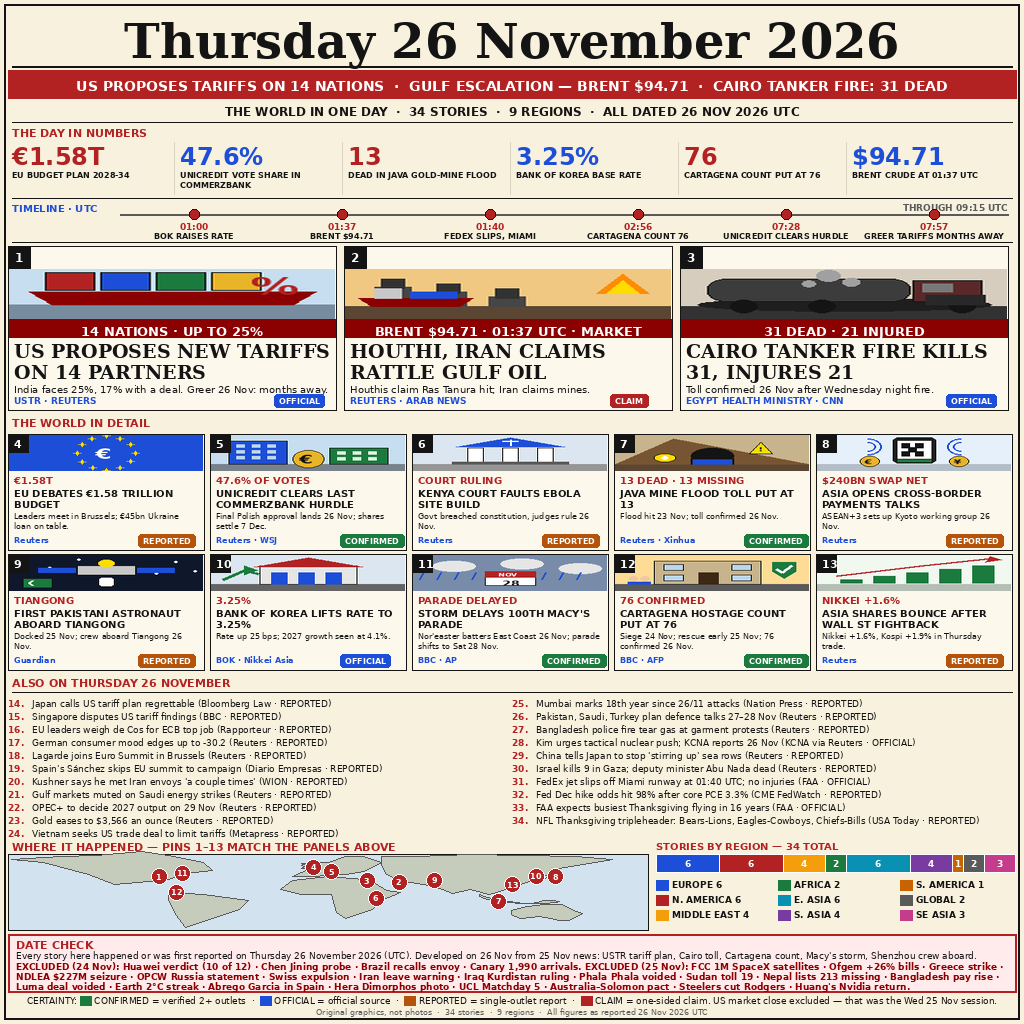
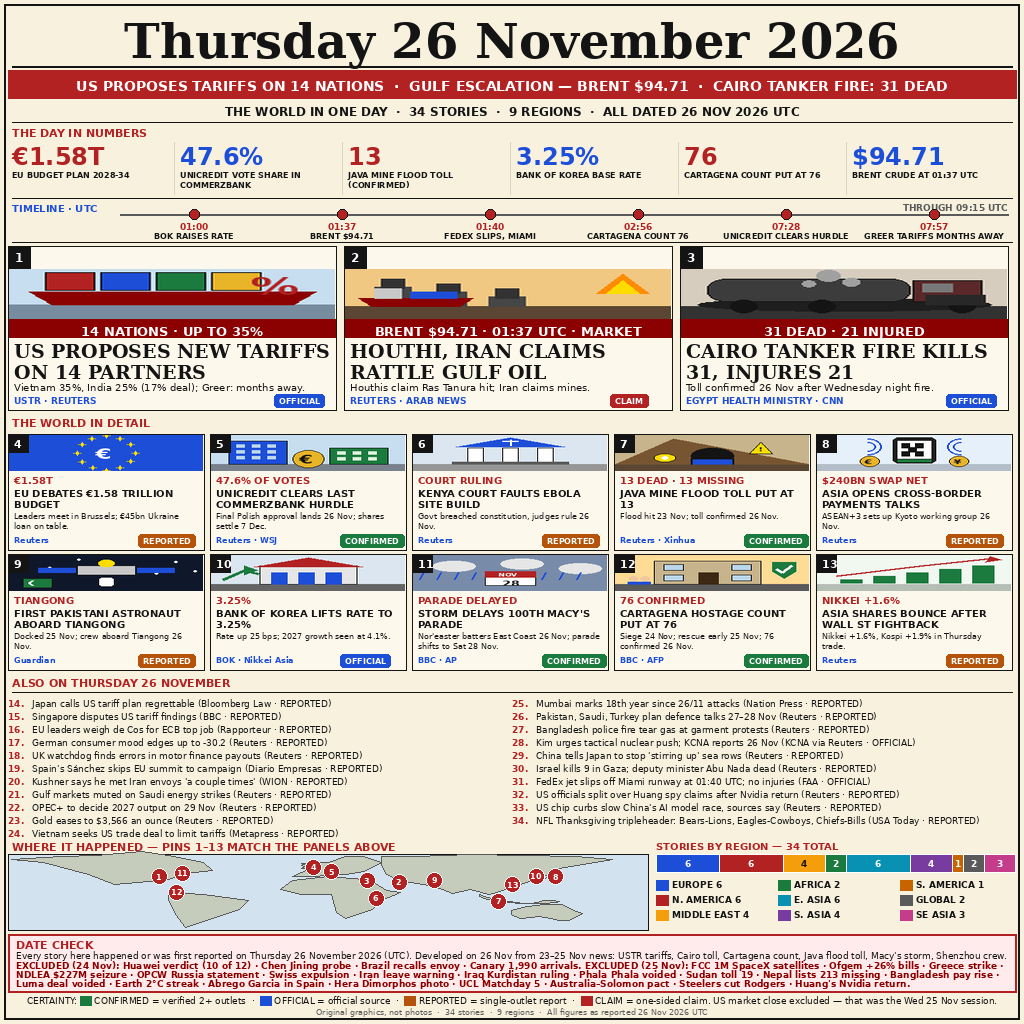
Revise-4 per Antigravity round 3: replace 24-25 Nov cards/briefs/KPIs with verified 26 Nov stories, expand EXCLUDED, honest DATE CHECK, cutoff 09:15 UTC

diff --git a/draw.py b/draw.py
@@ -345,10 +345,10 @@ def blit_scene(img, name, x, y, w, h):
 
 # ---------------------------------------------------------------- data
 MAIN_PANELS = [
-    dict(num=1, label="14 NATIONS · UP TO 25%", scene="tariff", badge="OFFICIAL",
+    dict(num=1, label="14 NATIONS · UP TO 35%", scene="tariff", badge="OFFICIAL",
          source="USTR · REUTERS", region="N. AMERICA",
          headline="US PROPOSES NEW TARIFFS ON 14 PARTNERS",
-         sub="India faces 25%, 17% with a deal. Greer 26 Nov: months away."),
+         sub="Vietnam 35%, India 25% (17% deal); Greer: months away."),
     dict(num=2, label="BRENT $94.71 · 01:37 UTC · MARKET", scene="gulf", badge="CLAIM",
          source="REUTERS · ARAB NEWS", region="MIDDLE EAST",
          headline="HOUTHI, IRAN CLAIMS RATTLE GULF OIL",
@@ -409,7 +409,7 @@ ALSO = [
     ("Singapore disputes US tariff findings", "BBC", "REPORTED", "SE ASIA"),
     ("EU leaders weigh de Cos for ECB top job", "Rapporteur", "REPORTED", "EUROPE"),
     ("German consumer mood edges up to -30.2", "Reuters", "REPORTED", "EUROPE"),
-    ("Lagarde joins Euro Summit in Brussels", "Reuters", "REPORTED", "EUROPE"),
+    ("UK watchdog finds errors in motor finance payouts", "Reuters", "REPORTED", "EUROPE"),
     ("Spain's Sánchez skips EU summit to campaign", "Diario Empresas", "REPORTED", "EUROPE"),
     ("Kushner says he met Iran envoys 'a couple times'", "WION", "REPORTED", "MIDDLE EAST"),
     ("Gulf markets muted on Saudi energy strikes", "Reuters", "REPORTED", "MIDDLE EAST"),
@@ -423,15 +423,15 @@ ALSO = [
     ("China tells Japan to stop 'stirring up' sea rows", "Reuters", "REPORTED", "E. ASIA"),
     ("Israel kills 9 in Gaza; deputy minister Abu Nada dead", "Reuters", "REPORTED", "MIDDLE EAST"),
     ("FedEx jet slips off Miami runway at 01:40 UTC; no injuries", "FAA", "OFFICIAL", "N. AMERICA"),
-    ("Fed Dec hike odds hit 98% after core PCE 3.3%", "CME FedWatch", "REPORTED", "N. AMERICA"),
-    ("FAA expects busiest Thanksgiving flying in 16 years", "FAA", "OFFICIAL", "N. AMERICA"),
+    ("US officials split over Huang spy claims after Nvidia return", "Reuters", "REPORTED", "N. AMERICA"),
+    ("US chip curbs slow China's AI model race, sources say", "Reuters", "REPORTED", "N. AMERICA"),
     ("NFL Thanksgiving tripleheader: Bears-Lions, Eagles-Cowboys, Chiefs-Bills", "USA Today", "REPORTED", "N. AMERICA"),
 ]
 
 NUMBERS = [
     ("€1.58T", "EU BUDGET PLAN 2028-34"),
     ("47.6%", "UNICREDIT VOTE SHARE IN COMMERZBANK"),
-    ("13", "DEAD IN JAVA GOLD-MINE FLOOD"),
+    ("13", "JAVA MINE FLOOD TOLL (CONFIRMED)"),
     ("3.25%", "BANK OF KOREA BASE RATE"),
     ("76", "CARTAGENA COUNT PUT AT 76"),
     ("$94.71", "BRENT CRUDE AT 01:37 UTC"),
@@ -553,7 +553,7 @@ def render():
                p["label"], font=lf, fill=(255, 255, 255))
         draw_wrapped(d, p["headline"], font(19, bold=True, serif=True), x + 6, y0 + 94,
                      pw - 12, leading=21)
-        d.text((x + 6, y0 + 137), p["sub"], font=font(10), fill=INK)
+        d.text((x + 6, y0 + 135), p["sub"], font=font(10), fill=INK)
         d.text((x + 6, y0 + ph - 15), p["source"], font=font(9, bold=True), fill=BLUE)
         badge(d, x + pw - 62, y0 + ph - 16, p["badge"])
 
@@ -652,8 +652,11 @@ def render():
         if seg_w >= 10:
             cf = font(9, bold=True)
             cw = d.textlength(str(count), font=cf)
+            # dark digits on the bright-amber MIDDLE EAST segment: white
+            # there only reached 2.15:1, dark ink clears 9:1
+            num_fill = INK if name == "MIDDLE EAST" else (255, 255, 255)
             d.text((cx + (seg_w - cw) / 2, by + 4), str(count), font=cf,
-                   fill=(255, 255, 255))
+                   fill=num_fill)
         cx += seg_w
     # legend: colour swatch + name + count, 3 columns x 3 rows
     for i, (name, count, color) in enumerate(REGIONS):
@@ -668,8 +671,8 @@ def render():
     d.rectangle([8, 934, W - 8, 992], fill=(255, 235, 235), outline=RED, width=2)
     d.text((16, 938), "DATE CHECK", font=font(11, bold=True), fill=RED)
     dc1 = ("Every story here happened or was first reported on Thursday 26 November 2026 "
-           "(UTC). Developed on 26 Nov from 25 Nov news: USTR tariff plan, Cairo toll, "
-           "Cartagena count, Macy's storm, Shenzhou crew aboard.")
+           "(UTC). Developed on 26 Nov from 23–25 Nov news: USTR tariffs, Cairo toll, "
+           "Cartagena count, Java flood toll, Macy's storm, Shenzhou crew.")
     dc2 = ("EXCLUDED (24 Nov): Huawei verdict (10 of 12) · Chen Jining probe · Brazil "
            "recalls envoy · Canary 1,990 arrivals. EXCLUDED (25 Nov): FCC 1M SpaceX "
            "satellites · Ofgem +26% bills · Greece strike · NDLEA $227M seizure · OPCW "
@@ -678,8 +681,8 @@ def render():
            "Bangladesh pay rise · Luma deal voided · Earth 2°C streak · Abrego Garcia "
            "in Spain · Hera Dimorphos photo · UCL Matchday 5 · Australia–Solomon pact · "
            "Steelers cut Rodgers · Huang's Nvidia return.")
-    y = draw_wrapped(d, dc1, font(9), 16, 950, 992, fill=INK, leading=10)
-    draw_wrapped(d, dc2, font(9, bold=True), 16, y + 1, 992, fill=DARKRED, leading=10)
+    y = draw_wrapped(d, dc1, font(9), 16, 950, 992, fill=INK, leading=9)
+    draw_wrapped(d, dc2, font(9, bold=True), 16, y + 1, 992, fill=DARKRED, leading=9)
 
     # ---- footer legend: colour swatches in front of each certainty level
     legend_parts = [

diff --git a/README.md b/README.md
@@ -45,14 +45,31 @@ the Sudan toll, the Nepal list, the Bangladesh pay rise, the Luma
 verdict, the Earth 2°C streak, Abrego Garcia, the Brazil envoy and the
 Hera photo all left, replaced by 26 Nov items such as Japan's tariff
 protest, the GfK mood reading, the Mumbai 26/11 anniversary, the Kushner
-talks, the NFL tripleheader and the Fed's 98% hike odds. The DATE CHECK
-box now names only the five 25 Nov stories that genuinely developed on
-26 Nov (USTR tariffs, Cairo toll, Cartagena count, Macy's storm,
-Shenzhou crew aboard) and drops the old Swiss-deadline sentence. The
-timeline lost the OPCW stamp (a 25 Nov story) and the "GREER:" colon;
-Cards 1–3 gained breathing room under their subtexts and badges; and
-the region bar now pairs bright amber against red and bright cyan
-against green so the neighbours stay apart at thumbnail size.
+talks and the NFL tripleheader. The DATE CHECK box now names only the
+stories that genuinely developed on 26 Nov (USTR tariffs, Cairo toll,
+Cartagena count, Macy's storm, Shenzhou crew aboard) and drops the old
+Swiss-deadline sentence. The timeline lost the OPCW stamp (a 25 Nov
+story) and the "GREER:" colon; Cards 1–3 gained breathing room under
+their subtexts and badges; and the region bar now pairs bright amber
+against red and bright cyan against green so the neighbours stay apart
+at thumbnail size.
+
+Round-5 fixes (final): the Lead #1 ribbon now reads UP TO 35% — the
+USTR Section 301 proposal tops out at Vietnam's 35% (India 25%, or 17%
+with a deal); the 40% figure sometimes quoted is only China's
+conditional fallback rate, not a proposed rate, so it stays out of the
+ribbon. The last two stale briefs went out too — the Fed hike-odds item
+was built on 25 Nov PCE data with US markets shut on the 26th, and the
+FAA flying record was a 24 Nov release — replaced by two Reuters items
+first reported on 26 Nov UTC (the split inside the US government over
+the Huang spying claims, and the US chip curbs slowing China's AI
+models). The thin Lagarde-at-the-summit brief was swapped for the UK
+regulator finding errors in its motor-finance payouts (Reuters, 07:15
+UTC). DATE CHECK now lists the Java flood toll among the carry-over
+stories and dates the range honestly as 23–25 Nov, and KPI #3 reads
+JAVA MINE FLOOD TOLL (CONFIRMED). The amber MIDDLE EAST segment now
+carries dark digits, Cards 1–3 subtexts sit 2 px higher, and the DATE
+CHECK lines run 1 px tighter so the last red line clears the frame.
 
 Two things to know: the Shenzhou-24 crew card is kept on purpose — the
 launch and docking were 25 Nov, but the crew is aboard Tiangong through
